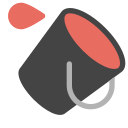
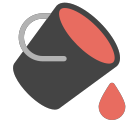
bucket SCollection

diff --git a/graphics/menus/extensions/Bucket.java b/graphics/menus/extensions/Bucket.java
@@ -1,12 +1,11 @@
 package graphics.menus.extensions;
 
-import graphics.shapes.SCircle;
-import graphics.shapes.SCollection;
-import graphics.shapes.SRectangle;
+import graphics.shapes.*;
 import graphics.shapes.Shape;
 import graphics.shapes.attributes.ColorAttributes;
 import graphics.shapes.ui.ShapesView;
 
+import javax.swing.*;
 import java.awt.*;
 import java.awt.event.MouseEvent;
 import java.awt.event.MouseListener;
@@ -24,6 +23,9 @@ public class Bucket implements MouseListener {
         //this.oldColor = getPixelColor(x,y);
         this.newColor = color;
         this.sview.addMouseListener(this);
+        ImageIcon im = new ImageIcon(new ImageIcon("icon/bucket2.png").getImage().getScaledInstance(31,31, Image.SCALE_SMOOTH));
+        this.sview.setCursor(Toolkit.getDefaultToolkit().createCustomCursor(im.getImage(), new Point(im.getIconWidth()-2,2*im.getIconHeight()/3 ), "pipette cursor"));
+
 
         //setPixelColor(10,10, Color.BLACK);
     }
@@ -83,7 +85,20 @@ public class Bucket implements MouseListener {
         return c;
 
     }
+    private SText fillCircle(SText t) {
+        ColorAttributes caRect = (ColorAttributes) t.getAttributes("Color");
+        caRect.filled = true;
+        if (caRect.fillColor == caRect.strokeColor){
+            caRect.fillColor = newColor;
+            caRect.strokeColor = newColor;
 
+        }
+        else{
+            caRect.fillColor = newColor;
+        }
+        return t;
+
+    }
 
     @Override
     public void mouseClicked(MouseEvent e) {
@@ -100,13 +115,31 @@ public class Bucket implements MouseListener {
                         fillRect((SRectangle) s);
                     } else if (s.getClass() == SCircle.class) {
                         fillCircle((SCircle) s);
+                    }else if (s.getClass() == SText.class) {
+                        fillCircle((SText) s);
+                    }
+                    else if (s.getClass() == SCollection.class){
+                        Iterator<Shape> sInside = ((SCollection) s).iterator();
+                        while (sInside.hasNext()){
+                            Shape shapeInside = sInside.next();
+                            if (shapeInside.getBounds().contains(e.getPoint().x, e.getPoint().y)) {
+                                if (shapeInside.getClass() == SRectangle.class) {
+                                    fillRect((SRectangle) shapeInside);
+                                } else if (shapeInside.getClass() == SCircle.class) {
+                                    fillCircle((SCircle) shapeInside);
+                                } else if (shapeInside.getClass() == SText.class) {
+                                    fillCircle((SText) shapeInside);
+                                }
+                            }
+                        }
                     }
                 }
 
             }
         }
         sview.repaint();
-        this.sview.removeMouseListener(this);
+        this.sview.setCursor(Cursor.getDefaultCursor());
+        sview.removeMouseListener(this);
     }
 
 
